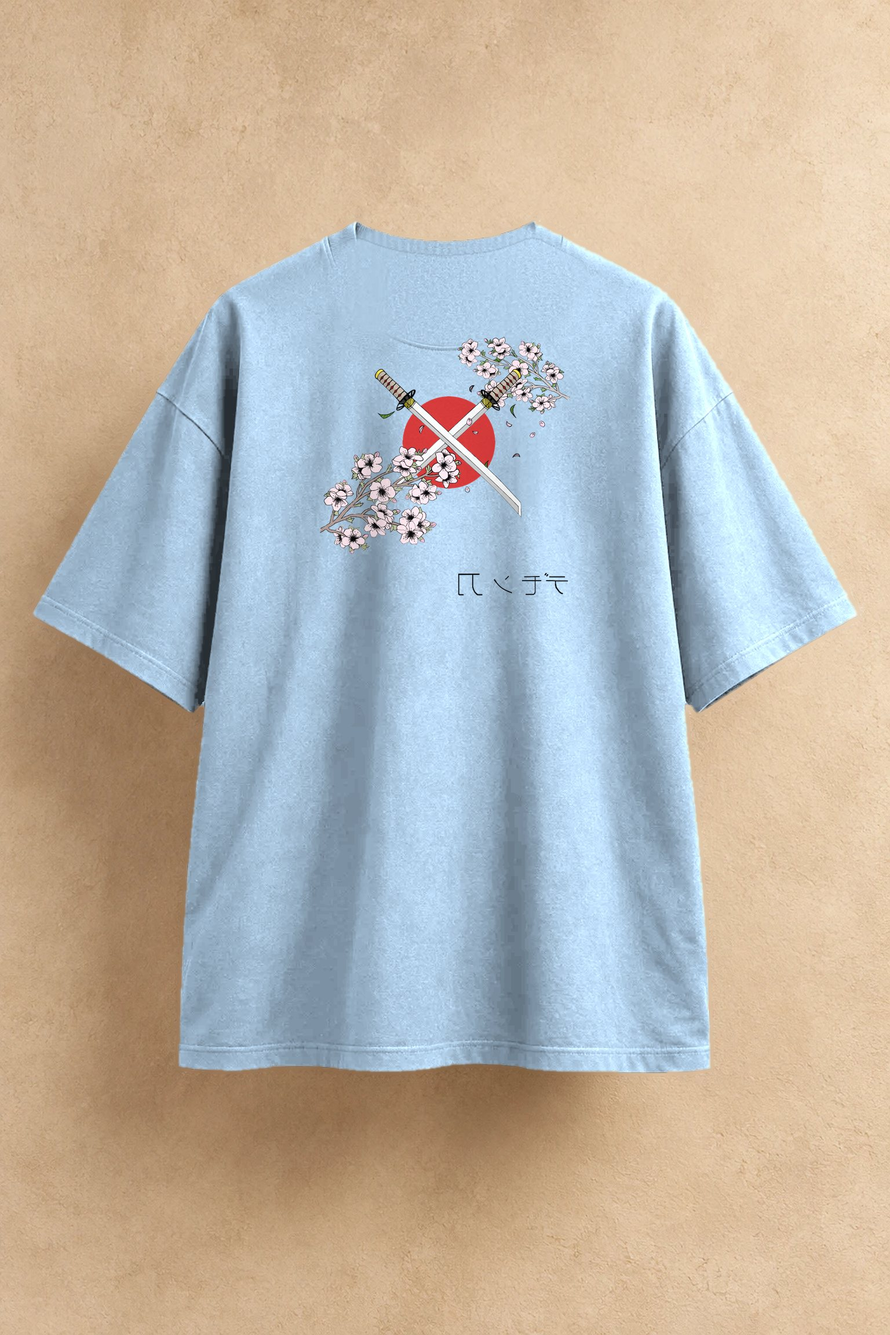
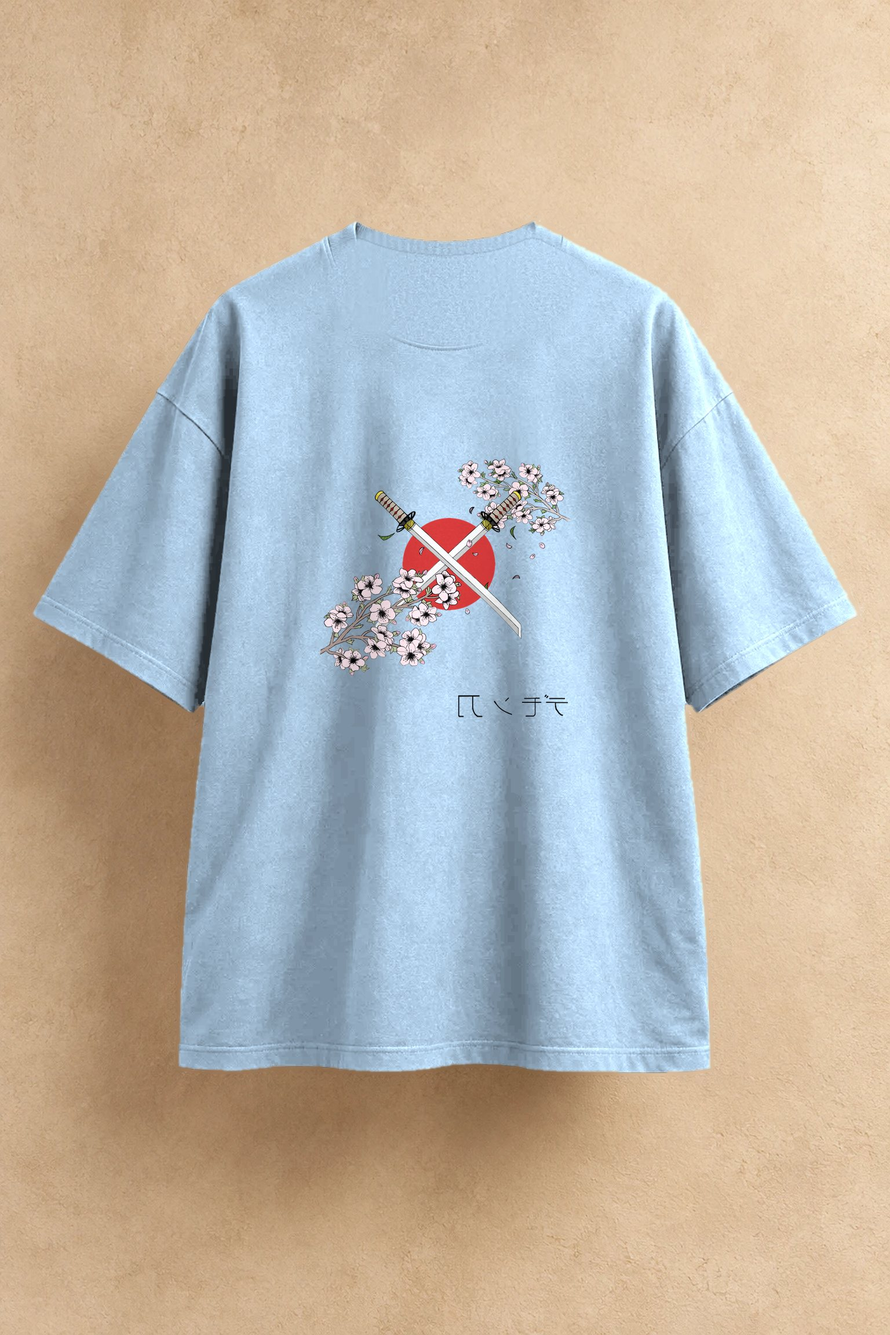
Place tee back prints in the middle of the back
Back prints keep their real size (30x38 cm) and are now centred in the middle of the back,
matching the owner's reference photos, instead of starting just below the collar.

Claude-Session: https://claude.ai/code/session_01Xyee1nokqV7xdAtp2gFYaY

Changed region(s): [[0.3438, 0.25, 0.625, 0.5]]

diff --git a/tools/tee-mockups/build.py b/tools/tee-mockups/build.py
@@ -21,7 +21,7 @@ DESIGNS = {
     "fallen-sword": {"front": {"dark": "fronts/fronts-10x10/fallen-sword-front-option2-black-shirt.png", "light": "fronts/fronts-10x10/fallen-sword-front-option2-white-shirt.png"},
                       # back print with the two side-text columns (layout from the owner's sample), 31.86 x 38.59 cm
                       "back": {"dark": "new/fallen-sword-back-with-side-text-black-shirt.png", "light": "new/fallen-sword-back-with-side-text-white-shirt.png"},
-                      "back_canvas_cm": (31.86, 38.59), "back_offset_cm": (-0.93, -0.59)},
+                      "back_canvas_cm": (31.86, 38.59)},
     "oni-blade": {"front": {"dark": "fronts/fronts-10x10/oni-blade-front.png", "light": "fronts/fronts-10x10/oni-blade-front.png"},
                    # dark garments: the same back with the small Japanese text in white
                    "back": {"dark": "new/oni-blade-back-white-text.png", "light": "backs/backs-30x38/oni-blade-back.png"}},
@@ -33,7 +33,10 @@ DESIGNS = {
 
 # Print placement on the reference (in reference pixels): canvas centre and canvas size in cm.
 FRONT = {"centre": (629, 523), "canvas_cm": (10, 10)}          # left chest, matches the reference print
-BACK = {"top": 352, "centre_x": 511, "canvas_cm": (30, 38)}     # centred, ~9 cm below the back collar
+# Back prints sit in the middle of the back, like the owner's reference photos: the artwork's visual centre is placed
+# at a fraction of the collar-to-hem height (per design, measured on the references), at its real printed size.
+BACK = {"collar": 253, "hem": 1238, "centre_x": 511, "canvas_cm": (30, 38), "centre": 0.47}
+BACK_CENTRE = {"fallen-sword": 0.46, "oni-blade": 0.43, "oni-mask": 0.47, "rose": 0.47}
 
 
 def box(x, r, axis):
@@ -178,10 +181,12 @@ def main():
                     cw, ch = FRONT["canvas_cm"]; cx, cy = FRONT["centre"]
                     place(img, ratio, art, (cw, ch), cx - cw * PX_PER_CM / 2, cy - ch * PX_PER_CM / 2)
                 else:
-                    cw, ch = BACK["canvas_cm"]
-                    left, top = BACK["centre_x"] - cw * PX_PER_CM / 2, BACK["top"]
-                    dx, dy = DESIGNS[slug].get("back_offset_cm", (0, 0))
-                    place(img, ratio, art, DESIGNS[slug].get("back_canvas_cm", (cw, ch)), left + dx * PX_PER_CM, top + dy * PX_PER_CM)
+                    cw, ch = DESIGNS[slug].get("back_canvas_cm", BACK["canvas_cm"])
+                    bbox = Image.open(art).getchannel("A").point(lambda v: 255 if v > 40 else 0).getbbox()
+                    art_h = Image.open(art).height
+                    art_mid_cm = (bbox[1] + bbox[3]) / 2 / art_h * ch          # visual centre of the artwork inside its canvas
+                    target = BACK["collar"] + BACK_CENTRE.get(slug, BACK["centre"]) * (BACK["hem"] - BACK["collar"])
+                    place(img, ratio, art, (cw, ch), BACK["centre_x"] - cw * PX_PER_CM / 2, target - art_mid_cm * PX_PER_CM)
                 name = f"{colour.lower().replace(' ', '-')}-{view}.jpg"
                 (out / slug).mkdir(parents=True, exist_ok=True)
                 Image.fromarray(np.clip(img, 0, 255).astype(np.uint8)).save(out / slug / name, quality=84, optimize=True, progressive=True)

diff --git a/tools/tee-mockups/README.md b/tools/tee-mockups/README.md
@@ -8,7 +8,7 @@ python3 -I tools/tee-mockups/build.py <reference-tee.webp> <print-files-folder> 
 ```
 
 - `<print-files-folder>` holds the owner's print files (`fronts/fronts-10x10/…`, `backs/backs-30x38/…`); they are not stored in this repository.
-- Front prints are placed as a 10×10 cm left-chest canvas, back prints as a 30×38 cm canvas centred ~9 cm below the collar.
+- Front prints are placed as a 10×10 cm left-chest canvas. Back prints keep their real size (30×38 cm) and sit in the middle of the back, like the owner's reference photos (`BACK_CENTRE`).
 - Dark garments use the "black-shirt" print versions, light garments the "white-shirt" versions.
 - To add a colour: add it to `COLOURS` here, then to `teeColourHexes` and `teeColoursByWeight` in `src/catalog.ts`, and copy the new images into `public/catalog/tees/`.
 - `new/` holds print files prepared from the owner's files: the Fallen Sword back with both side-text columns, and the Oni Blade back with white Japanese text for dark garments.
